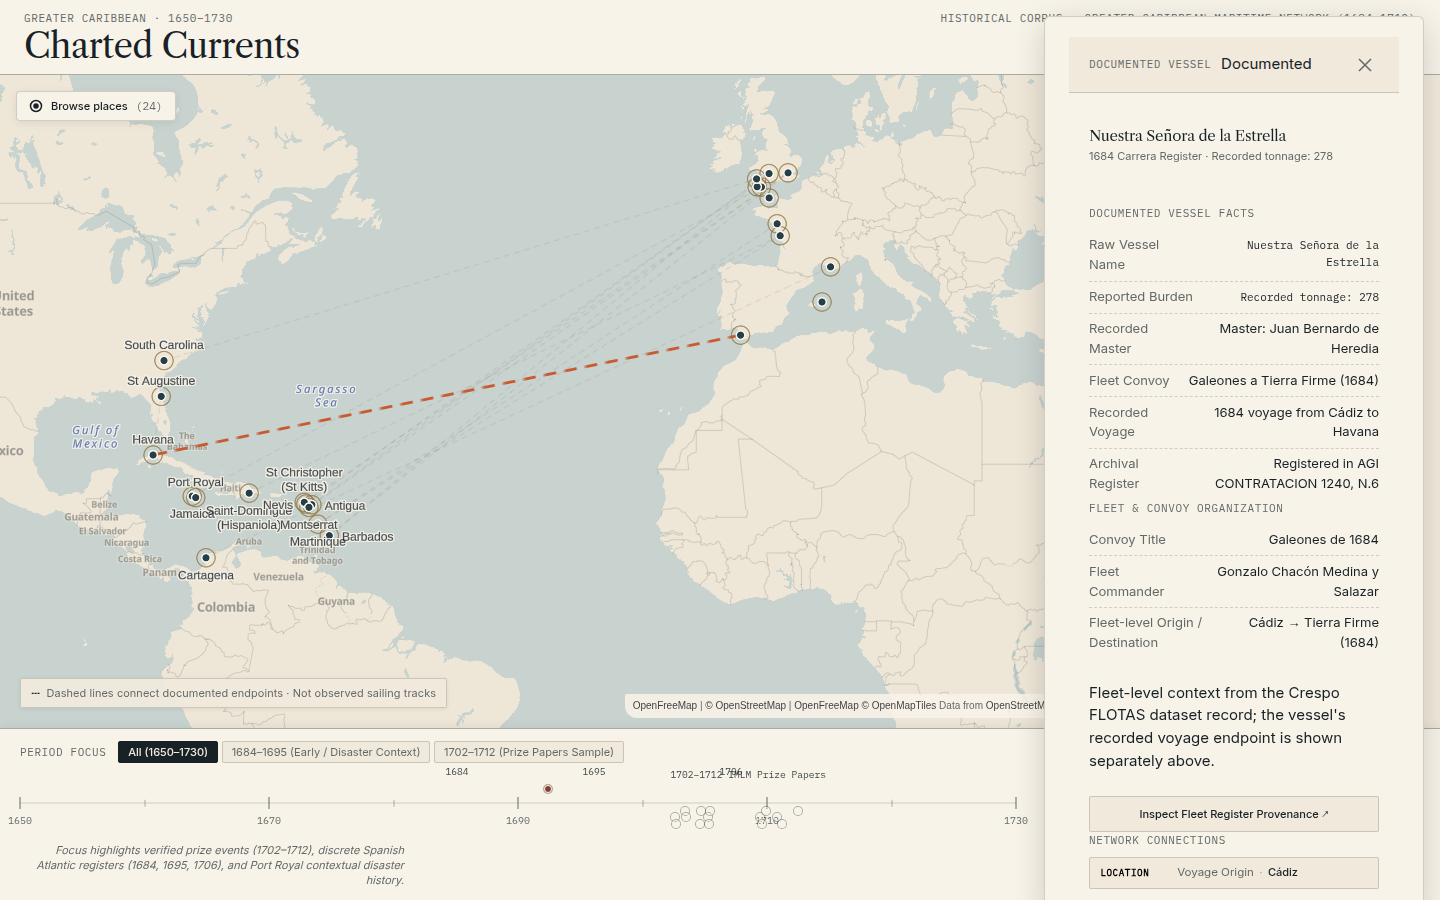
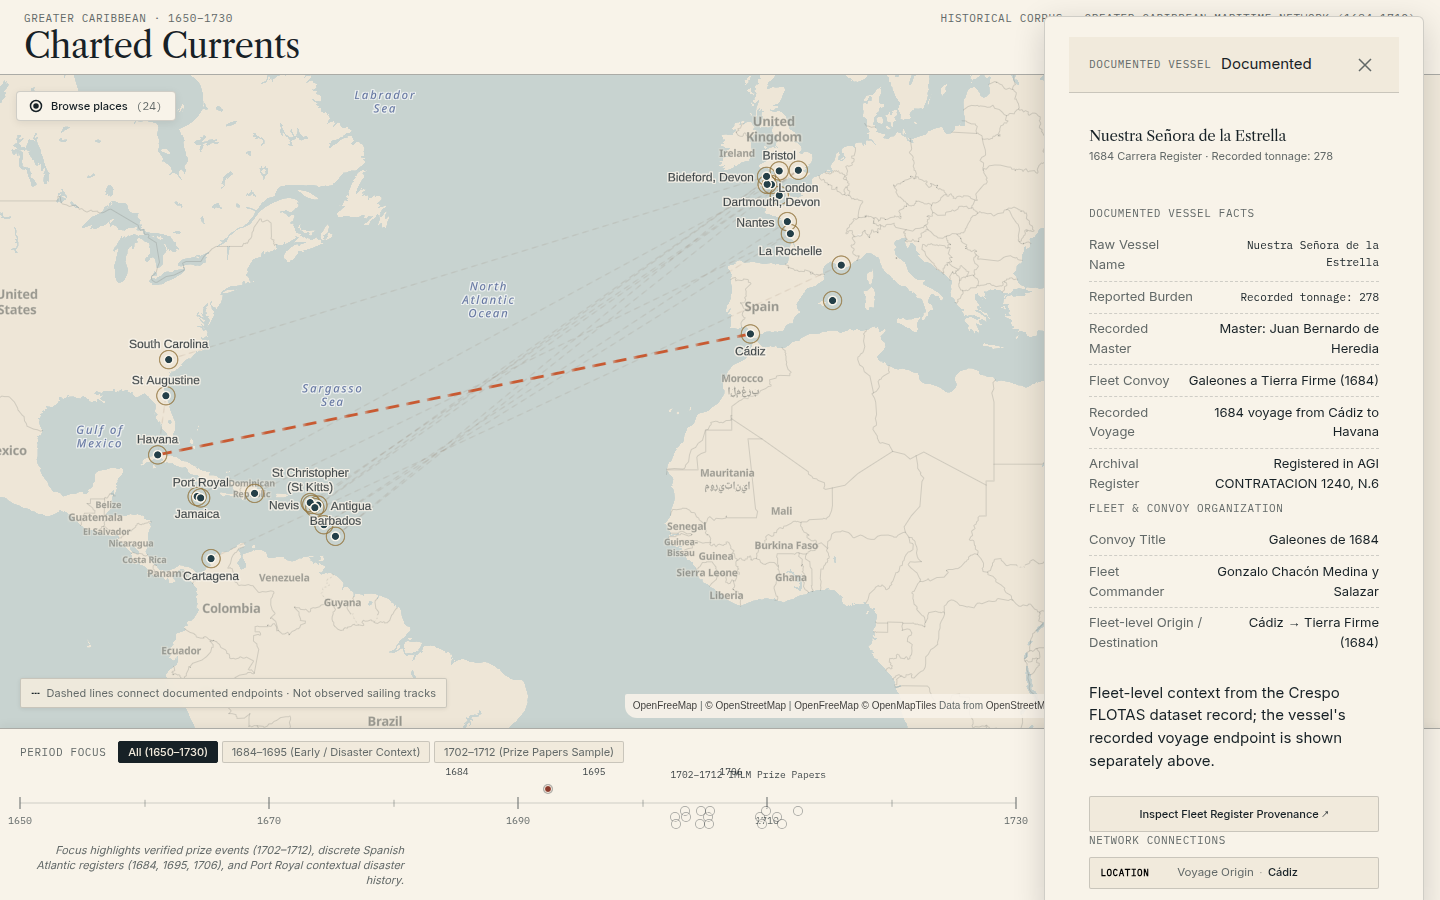
fix(packet5): final closeout corrections, restrained Garrote rationale, and shared selection audit

diff --git a/src/lib/domain/types.ts b/src/lib/domain/types.ts
@@ -266,7 +266,6 @@ export interface FleetConvoyContext {
   fleet_destination: string;
   year: number;
   project_derived_linked_navio_row_count?: number;
-  project_derived_vessel_count?: number;
   source_citation?: string;
 }
 

diff --git a/scripts/audit-crespo-mdbtools.py b/scripts/audit-crespo-mdbtools.py
@@ -18,9 +18,16 @@ MDB_PATH = os.path.join(REPO_ROOT, "data/raw/crespo/CrespoDynCoopNetDATASETS.mdb
 NAVIO_FIXTURE = os.path.join(REPO_ROOT, "data/candidates/crespo/source_rows.json")
 FLOTAS_FIXTURE = os.path.join(REPO_ROOT, "data/candidates/crespo/flotas_rows.json")
 REPORT_PATH = os.path.join(REPO_ROOT, "data/review/crespo/mdbtools_source_fidelity_audit.json")
+SELECTION_PATH = os.path.join(REPO_ROOT, "data/review/crespo/extraction_selection.json")
 
-AUDIT_NAVIO_IDS = [6156, 6177, 6587, 6627, 6820, 6825, 6890, 6906]
-AUDIT_FLOTA_IDS = [4, 141, 168]
+if os.path.exists(SELECTION_PATH):
+    with open(SELECTION_PATH, "r", encoding="utf-8") as f:
+        _sel = json.load(f)
+    AUDIT_NAVIO_IDS = _sel.get("todosnavios_ids", [6156, 6177, 6587, 6627, 6820, 6825, 6890, 6906])
+    AUDIT_FLOTA_IDS = _sel.get("flotas_ids", [4, 141, 168])
+else:
+    AUDIT_NAVIO_IDS = [6156, 6177, 6587, 6627, 6820, 6825, 6890, 6906]
+    AUDIT_FLOTA_IDS = [4, 141, 168]
 
 NAVIO_FIELDS = [
     "ID", "AÑO", "ESPECTRO DEL NAVIO", "CAPITAN / MAESTRE", "MAESTRE",
@@ -108,6 +115,13 @@ def run_audit():
             pass
 
     results = {
+        "audit_meta": {
+            "description": "Independent cross-parser source-fidelity QA comparing native mdbtools (mdb-export) against Python access-parser 0.0.6 extracted fixtures for Crespo MDB.",
+            "source_file": os.path.relpath(MDB_PATH, REPO_ROOT),
+            "selection_file": os.path.relpath(SELECTION_PATH, REPO_ROOT),
+            "finding_summary": "access-parser 0.0.6 and mdbtools differ in representation of some Jet4 Unicode ellipsis characters in FLOTAS bibliography fields. No substantive Packet 5 historical value mismatch was detected.",
+            "disclaimer": "This is software/source-fidelity QA, not independent historical corroboration."
+        },
         "summary": {
             "total_fields_compared": 0,
             "match_count": 0,

diff --git a/data/pipeline/adapters/crespo_adapter.py b/data/pipeline/adapters/crespo_adapter.py
@@ -84,8 +84,7 @@ class CrespoAdapter:
                         "fleet_origin": f_row.get("ORIGEN"),
                         "fleet_destination": f_row.get("DESTINO"),
                         "year": int(f_row.get("FECHA")) if f_row.get("FECHA") and str(f_row.get("FECHA")).isdigit() else None,
-                        "project_derived_linked_navio_row_count": f_row.get("_project_derived_linked_navio_row_count") or f_row.get("_project_derived_vessel_count"),
-                        "project_derived_vessel_count": f_row.get("_project_derived_linked_navio_row_count") or f_row.get("_project_derived_vessel_count"),
+                        "project_derived_linked_navio_row_count": f_row.get("_project_derived_linked_navio_row_count"),
                         "source_citation": f_row.get("FUENTE O DOCUMENTO")
                     }
             except (ValueError, TypeError):

diff --git a/data/pipeline/adapters/crespo_extract.py b/data/pipeline/adapters/crespo_extract.py
@@ -103,7 +103,6 @@ def extract_rows(mdb_path: str, target_ids: List[int], target_flota_ids: List[in
                 flota_col = todos_navios.get("FLOTAS CONOCIDAS", [])
                 linked_count = sum(1 for fl in flota_col if fl == f_id or (isinstance(fl, str) and str(fl).isdigit() and int(fl) == int(f_id)))
                 f_row["_project_derived_linked_navio_row_count"] = linked_count
-                f_row["_project_derived_vessel_count"] = linked_count
 
                 extracted_flotas.append(f_row)
 
